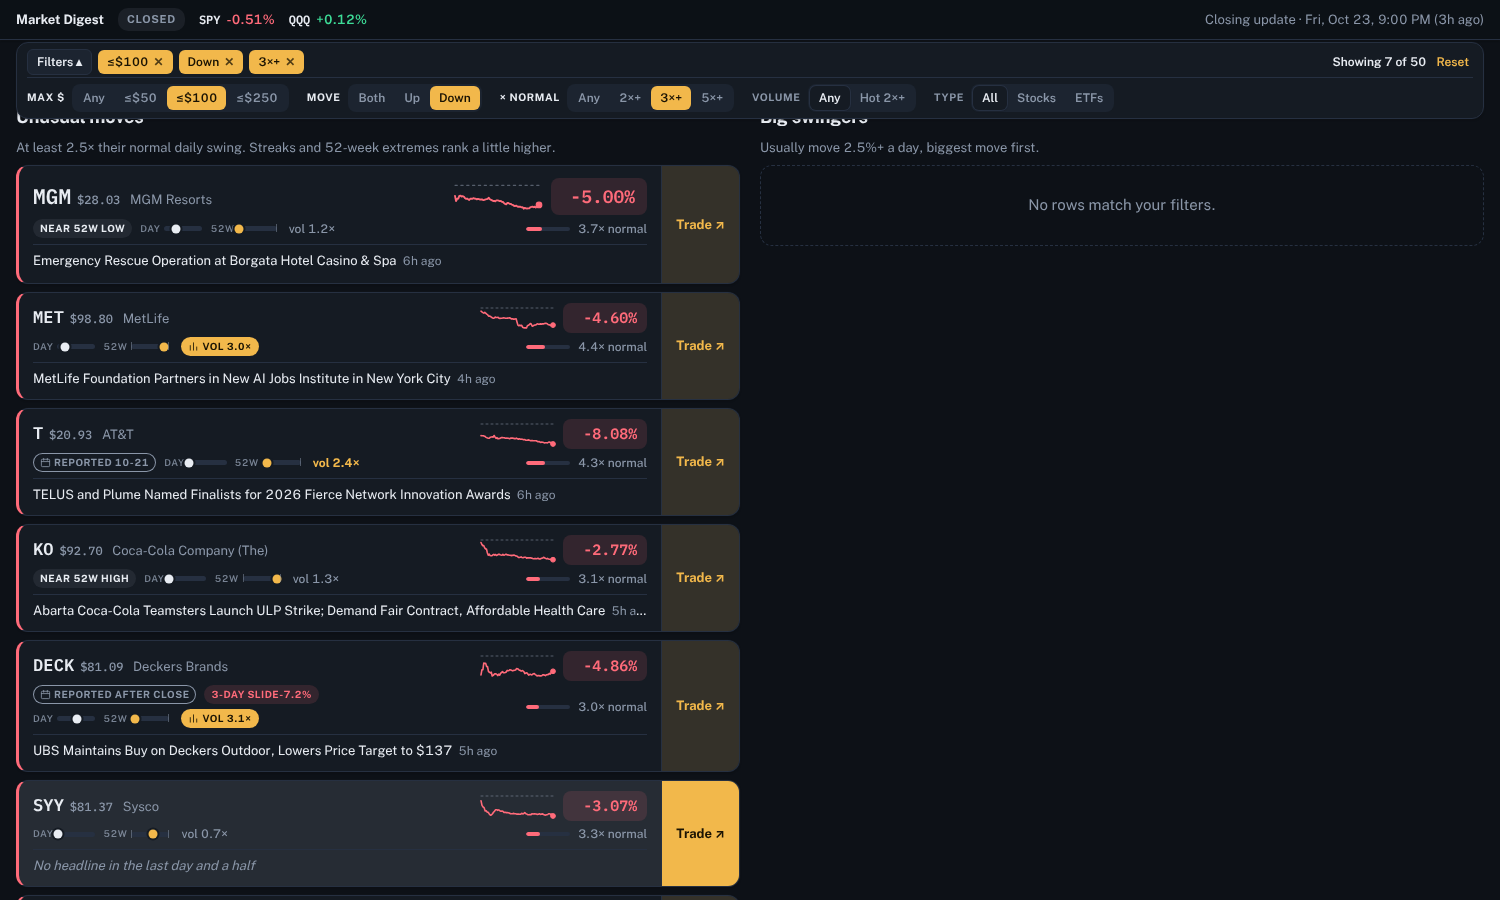
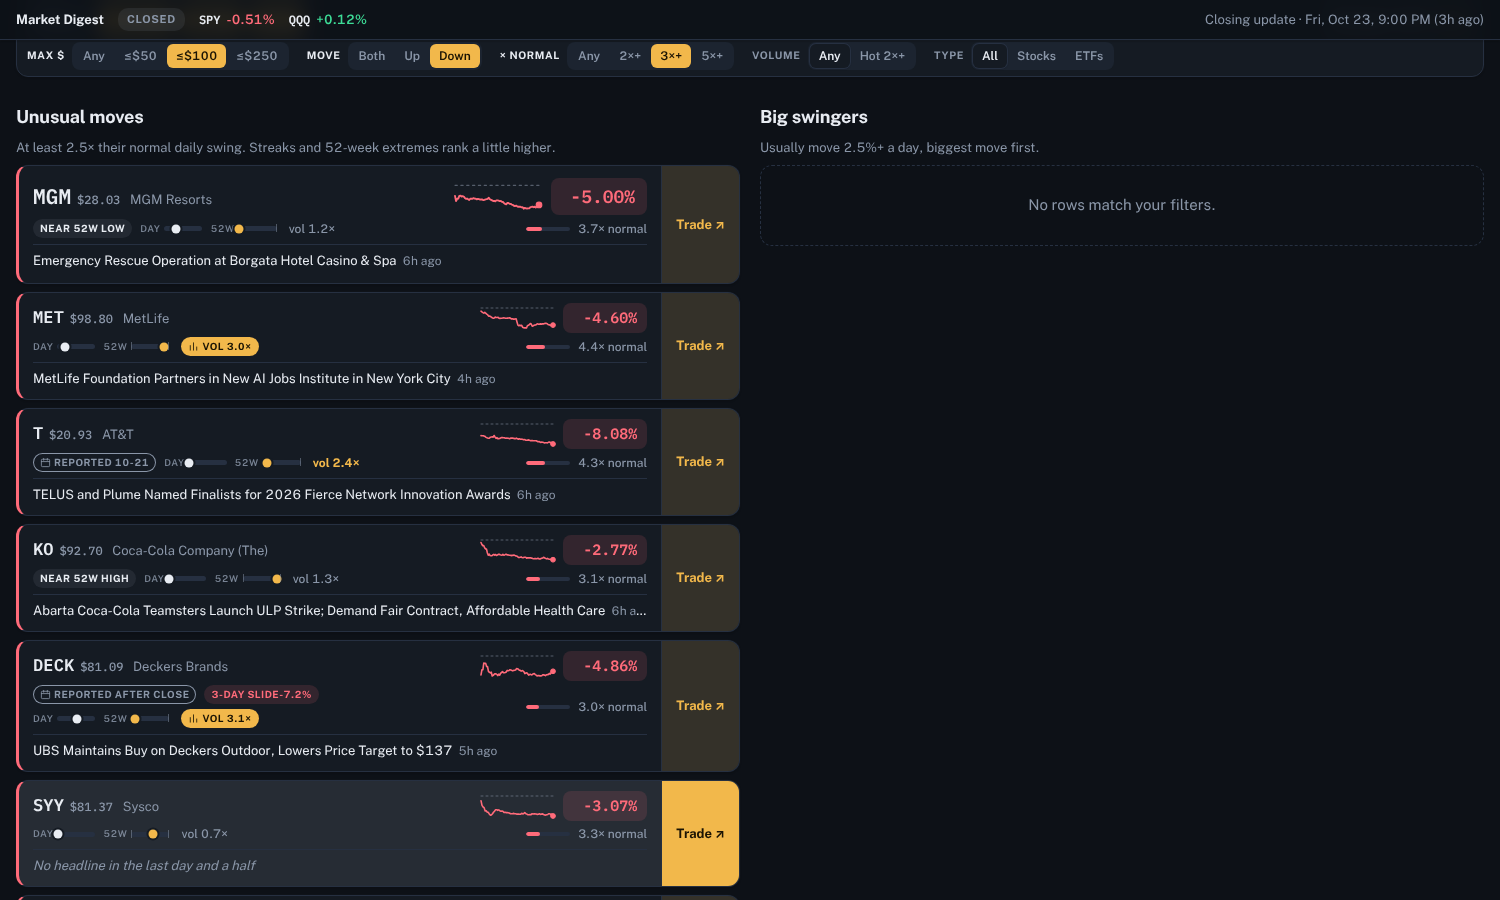
Make quick filter row non-sticky so it no longer covers list text
Claude-Session: https://claude.ai/code/session_0173438HUgz3EjyCHdRhCovo

Changed region(s): [[0.0, 0.0311, 0.7667, 0.1556], [0.8893, 0.0622, 0.9813, 0.0933], [0.6133, 0.0311, 0.644, 0.0622]]

diff --git a/docs/index.html b/docs/index.html
@@ -15,7 +15,7 @@
 .filters .achip i { font-style: normal; opacity: .75; padding: 0 5px; }
 .filters .fpanel { display: flex; flex-wrap: wrap; align-items: center; gap: 8px 18px; flex: 1 1 100%; padding-top: 6px; border-top: 1px solid var(--line); margin-top: 2px; }
 .filters .fpanel[hidden] { display: none; }
-.filters { position: sticky; top: 42px; z-index: 15; box-shadow: var(--shadow); display: flex; flex-wrap: wrap; align-items: center; gap: 0; margin: 10px 0; padding: 6px 10px; background: var(--surface); border: 1px solid var(--line); border-radius: 12px; font-size: 12px; }
+.filters { box-shadow: var(--shadow); display: flex; flex-wrap: wrap; align-items: center; gap: 0; margin: 10px 0; padding: 6px 10px; background: var(--surface); border: 1px solid var(--line); border-radius: 12px; font-size: 12px; }
 .filters .fg { display: inline-flex; align-items: center; gap: 7px; }
 .filters .fl { color: var(--muted); font-size: 10.5px; font-weight: 700; letter-spacing: .06em; text-transform: uppercase; }
 .filters .fg.on .fl { color: var(--fg); }
@@ -28,7 +28,7 @@
 .filters .fcount.active { color: var(--fg); }
 .filters .freset { color: var(--accent); background: transparent; padding: 3px 4px; }
 @media (max-width: 640px) {
-  .filters { top: 36px; padding: 5px 8px; margin: 6px 0; }
+  .filters { padding: 5px 8px; margin: 6px 0; }
   .filters { flex-wrap: wrap; overflow: visible; }
   .filters .fbar { overflow-x: auto; scrollbar-width: none; }
   .filters .fbar > * { flex: none; }
